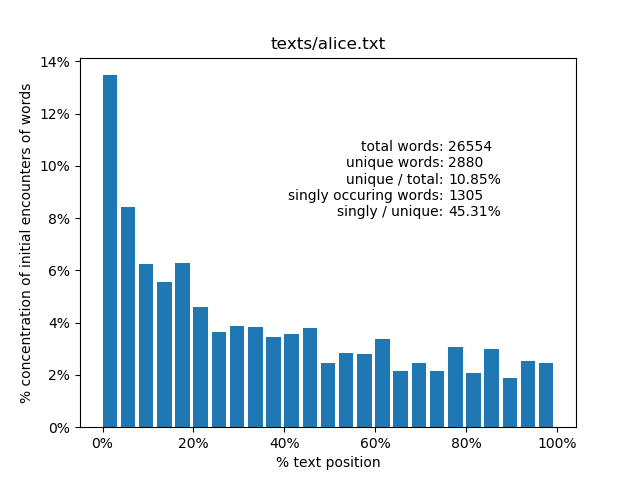
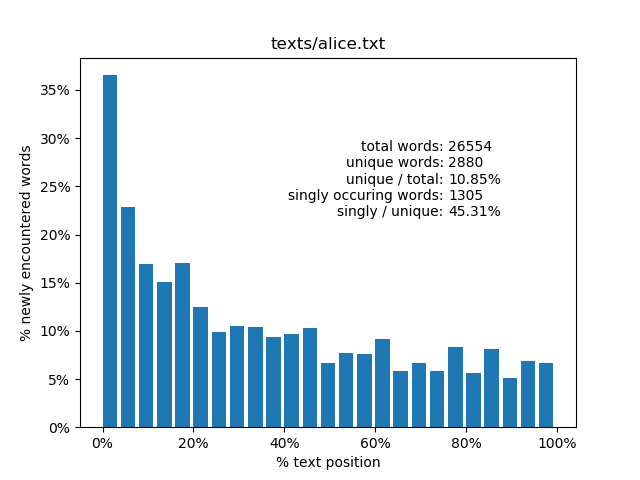
changed whats plotted

Changed region(s): [[0.0312, 0.0938, 0.125, 0.8438]]

diff --git a/idionalysis.py b/idionalysis.py
@@ -86,7 +86,8 @@ class Analysis:
         for length in chunk_lengths:
             end = start + length
             initial_encounters = self.initial_encounters[start:end]
-            chunk = Analysis(self.words, initial_encounters)
+            words = self.words[start:end]
+            chunk = Analysis(words, initial_encounters)
             chunks.append(chunk)
             start += length
         return chunks
@@ -94,12 +95,18 @@ class Analysis:
     def graph(self, chunks):
         ''' return concentration of initial occurences of vocabulary in each chunk '''
         chunks = self.divide(chunks)
-        return list(map(lambda chunk: chunk.unique / self.unique, chunks))
+        #return list(map(lambda chunk: chunk.unique / self.unique, chunks))
+        return list(map(lambda chunk: chunk.unique / chunk.length, chunks))
 
     @property
     def length(self):
         ''' return how many words in the text '''
         return len(self.words)
+
+    @property
+    def repeats(self):
+        ''' return how many times a word appears for a second time or more '''
+        return self.initial_encounters.count(False)
 
     @property
     def unique(self):
@@ -151,7 +158,7 @@ class Analysis:
         for bins in range(2, GRAPH_BINS_MAX + 1):
             graph = self.graph(bins)
             graph_str = ' + '.join(map(prettify, graph))
-            lines.append(f'initial occurence breakdown: {graph_str} = {prettify(sum(graph))}')
+            lines.append(f'initial occurence breakdown: {graph_str}')
         return '\n'.join(lines)
 
 def graph(name, analysis):
@@ -163,7 +170,7 @@ def graph(name, analysis):
     plt.figure(name)
     plt.title(name)
     plt.xlabel('% text position')
-    plt.ylabel('% concentration of initial encounters of words')
+    plt.ylabel('% newly encountered words')
     plt.bar(range(0, GRAPH_BINS_VISUAL), analysis.graph(GRAPH_BINS_VISUAL), align='edge')
     # and stats
     lines = list()
@@ -217,7 +224,7 @@ def bulk_analyse(filenames):
         plt.figure('Idionalysis')
         plt.title('Comparison')
         plt.xlabel('% text position')
-        plt.ylabel('% concentration of initial encounters of words')
+        plt.ylabel('% newly encountered words')
     # first get each individual analyses
     analyses = list(map(analyse_file, filenames))
     # and print each result
